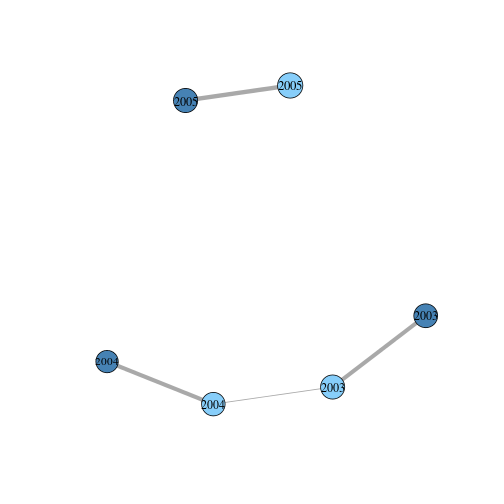
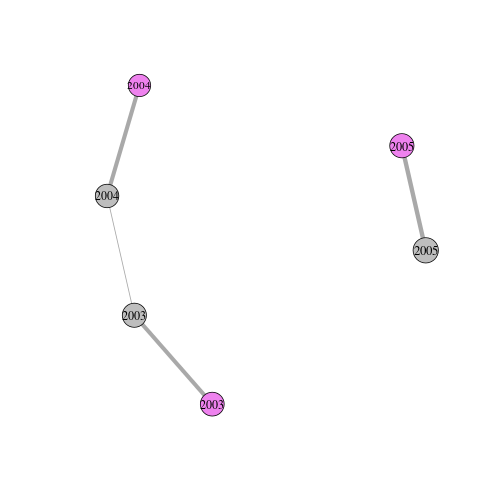
edited howto pages

diff --git a/howto/howto_content_similarity_network.md b/howto/howto_content_similarity_network.md
@@ -64,7 +64,7 @@ head(meta)
 
 The `content.similarity.graph` function has 2 required arguments. `m` is the matrix giving the content characteristics per document. `vertex.grouping.vars` is a named list containing the meta veriables that are used to group the documents. The function returns a graph in the `igraph` format. 
 
-Notable optional arguments are `similarity.measure' and `min.similarity`. With `similarity.measure` alternative methods to calculate the similarity between documents can be chosen. With `min.similarity` a threshold can be given for the edges/ties in the graph.
+Notable optional arguments are `similarity.measure` and `min.similarity`. With `similarity.measure` alternative methods to calculate the similarity between documents can be chosen. With `min.similarity` a threshold can be given for the edges/ties in the graph.
 
 
 ```r
@@ -89,9 +89,9 @@ g = graph.color.vertices(g, V(g)$party)  # color vertices by party
 ```
 
 ```
-##   attribute        color
-## 1       VVD    steelblue
-## 2       CDA lightskyblue
+##   attribute  color
+## 1       VVD violet
+## 2       CDA   grey
 ```
 
 
@@ -160,17 +160,17 @@ g = graph.color.vertices(g, V(g)$journal)  # color vertices by journal
 ```
 
 ```
-##                                       attribute             color
-## 1                        COMMUNICATION RESEARCH     lightseagreen
-## 2                      JOURNAL OF COMMUNICATION       lightyellow
-## 3  JOURNAL OF SOCIAL AND PERSONAL RELATIONSHIPS              grey
-## 4                        PERSONAL RELATIONSHIPS         lightcyan
-## 5                  HUMAN COMMUNICATION RESEARCH          darkcyan
-## 6                           NEW MEDIA & SOCIETY mediumspringgreen
-## 7                            JAVNOST-THE PUBLIC         burlywood
-## 8                       MEDIA CULTURE & SOCIETY   mediumslateblue
-## 9                      COMMUNICATION MONOGRAPHS          seashell
-## 10    JOURNALISM & MASS COMMUNICATION QUARTERLY         olivedrab
+##                                       attribute          color
+## 1                        COMMUNICATION RESEARCH        hotpink
+## 2                      JOURNAL OF COMMUNICATION      lightcyan
+## 3  JOURNAL OF SOCIAL AND PERSONAL RELATIONSHIPS         orange
+## 4                        PERSONAL RELATIONSHIPS     darksalmon
+## 5                  HUMAN COMMUNICATION RESEARCH     powderblue
+## 6                           NEW MEDIA & SOCIETY  darkslategrey
+## 7                            JAVNOST-THE PUBLIC      violetred
+## 8                       MEDIA CULTURE & SOCIETY    navajowhite
+## 9                      COMMUNICATION MONOGRAPHS lightslateblue
+## 10    JOURNALISM & MASS COMMUNICATION QUARTERLY      chocolate
 ```
 
 ```r
